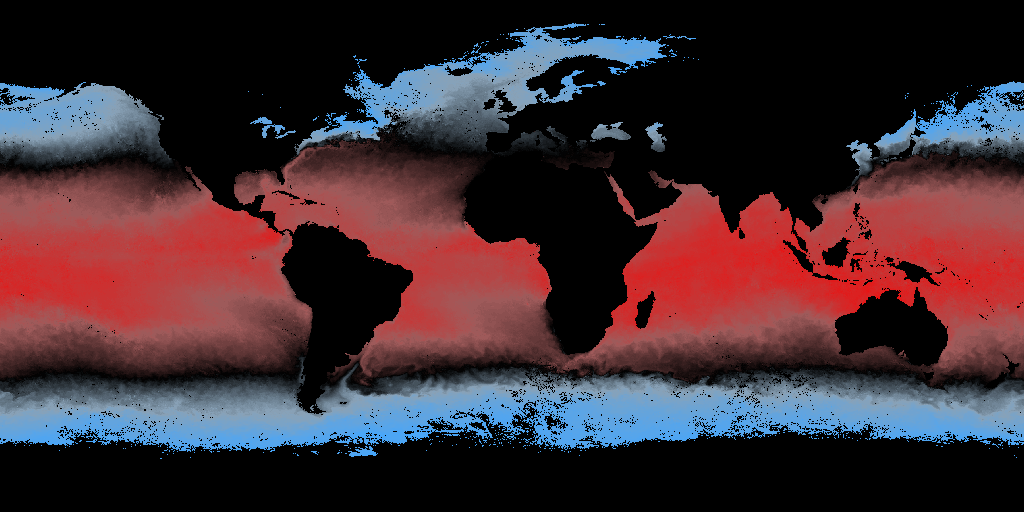
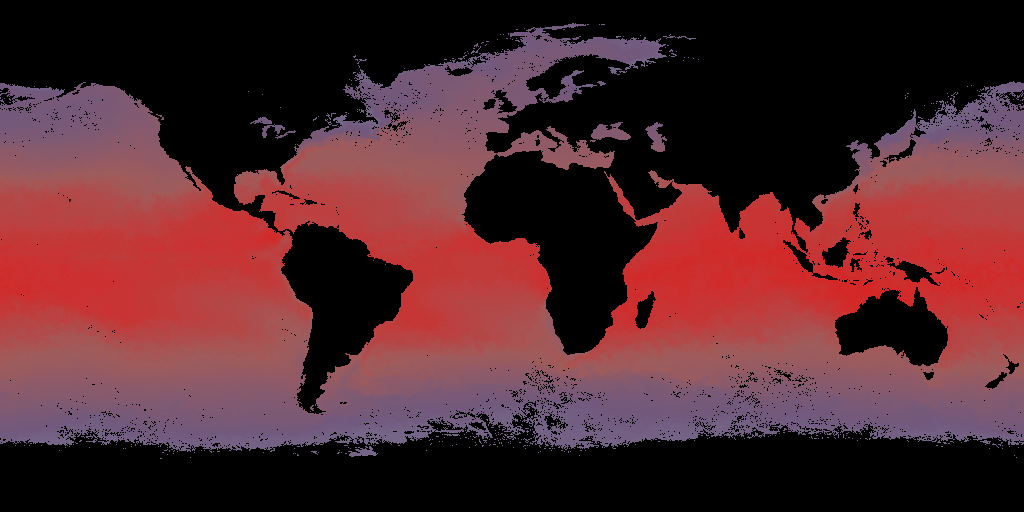
add 1000mb data, update gradient

diff --git a/js/config.js b/js/config.js
@@ -20,7 +20,7 @@ var CONFIG = {
       "radius": 0.5,
       "minMag": 0.33,
       "precision": 0.01,
-      "animationMs": 4000,
+      "animationMs": 2000,
       "geojsonLineColor": 0x555555,
       "frames": [
         "data/ocean_currents/temperature/2016-01.png",
@@ -38,16 +38,16 @@ var CONFIG = {
       ]
     },{
       "el": '#atmosphere-wind',
-      "title": "Wind and temperature<br />10 km above sea level",
-      "data": "data/atmosphere_wind/gfsanl_4_25000.png",
-      "meta": "data/atmosphere_wind/gfsanl_4_25000_meta.json",
+      "title": "Wind and temperature<br />10 meters above sea level",
+      "data": "data/atmosphere_wind/gfsanl_4_100000.png",
+      "meta": "data/atmosphere_wind/gfsanl_4_100000_meta.json",
       "viewAngle": 45,
       "near": 0.01,
       "far": 1000,
       "radius": 0.5,
-      "minMag": 0.0,
+      "minMag": 0.33,
       "precision": 0.01,
-      "animationMs": 1000,
+      "animationMs": 2000,
       "geojsonLineColor": 0xdddddd,
       "frames": [
         "data/atmosphere_wind/temperature/2016-01.png",

diff --git a/scripts/processData.py b/scripts/processData.py
@@ -14,8 +14,8 @@ import random
 import sys
 
 parser = argparse.ArgumentParser()
-parser.add_argument('-in', dest="INPUT_FILE", default="../data/atmosphere_wind/gfsanl_4_25000_monthly.json", help="Input CSV files")
-parser.add_argument('-out', dest="OUTPUT_FILE", default="../data/atmosphere_wind/gfsanl_4_25000.json", help="Output json file")
+parser.add_argument('-in', dest="INPUT_FILE", default="../data/atmosphere_wind/gfsanl_4_100000_monthly.json", help="Input CSV files")
+parser.add_argument('-out', dest="OUTPUT_FILE", default="../data/atmosphere_wind/gfsanl_4_100000.json", help="Output json file")
 parser.add_argument('-lon', dest="LON_RANGE", default="0,360", help="Longitude range")
 parser.add_argument('-lat', dest="LAT_RANGE", default="90,-90", help="Latitude range")
 parser.add_argument('-lonsample', dest="LON_RANGE_SAMPLE", default="0,360", help="Longitude range")
@@ -23,8 +23,8 @@ parser.add_argument('-latsample', dest="LAT_RANGE_SAMPLE", default="90,-90", hel
 parser.add_argument('-ppr', dest="PARTICLES_PER_ROW", type=int, default=240, help="Particles per row")
 parser.add_argument('-ppc', dest="PARTICLES_PER_COL", type=int, default=120, help="Particles per col")
 parser.add_argument('-ppp', dest="POINTS_PER_PARTICLE", type=int, default=100, help="Points per particle")
-parser.add_argument('-vel', dest="VELOCITY_MULTIPLIER", type=float, default=0.03, help="Velocity mulitplier")
-parser.add_argument('-dt', dest="DISPLAY_PARTICLES", type=int, default=2200, help="Number of particles to display")
+parser.add_argument('-vel', dest="VELOCITY_MULTIPLIER", type=float, default=0.06, help="Velocity mulitplier")
+parser.add_argument('-dt', dest="DISPLAY_PARTICLES", type=int, default=2000, help="Number of particles to display")
 parser.add_argument('-rand', dest="RANDOM", type=int, default=1, help="(1) if we should show random particles or (0) particles sorted by velocity")
 
 args = parser.parse_args()
@@ -89,7 +89,7 @@ print "%s degrees (lon) by %s degrees (lat) = %s (total)" % (lons, lats, total)
 #             mmin = mag
 #
 #         # normal = norm(mag, 0, 3)
-#         normal = norm(mag, 0, 70)
+#         normal = norm(mag, 0, 12)
 #         c = normal * 255.0
 #         c = int(round(c))
 #         pixels[lon, lat] = (c, c, c)
@@ -104,7 +104,7 @@ print "%s degrees (lon) by %s degrees (lat) = %s (total)" % (lons, lats, total)
 # im.save("monthData.png")
 # sys.exit(1)
 
-print "Target particles: %s" % PARTICLES
+print "Sample points: %s" % PARTICLES
 data = []
 
 randomCols = [random.randint(0, PARTICLES_PER_COL-1) for col in range(PARTICLES_PER_COL)]
@@ -216,7 +216,7 @@ for month in range(12):
     #             prev = coordinates[i-1]
     #             p0 = (norm(prev[0], LON_RANGE_SAMPLE[0], LON_RANGE_SAMPLE[1], clamp=False) * WIDTH, norm(prev[1], LAT_RANGE_SAMPLE[0], LAT_RANGE_SAMPLE[1], clamp=False) * HEIGHT)
     #             p1 = (norm(point[0], LON_RANGE_SAMPLE[0], LON_RANGE_SAMPLE[1], clamp=False) * WIDTH, norm(point[1], LAT_RANGE_SAMPLE[0], LAT_RANGE_SAMPLE[1], clamp=False) * HEIGHT)
-    #             alpha = int(round(norm(point[2], 0, 70) * 255))
+    #             alpha = int(round(norm(point[2], 0, 12) * 255))
     #             # alpha = int(round(norm(point[2], 0, 2) * 255))
     #             draw.line([p0, p1], fill=(255, 255, 255, alpha))
     # del draw

diff --git a/scripts/atmosphereWind/makeImages.py b/scripts/atmosphereWind/makeImages.py
@@ -1,7 +1,7 @@
 # -*- coding: utf-8 -*-
 
 import argparse
-from colormaps import *
+# from colormaps import *
 import datetime
 import json
 from lib import *
@@ -13,10 +13,10 @@ import random
 import sys
 
 parser = argparse.ArgumentParser()
-parser.add_argument('-in', dest="INPUT_FILE", default="../../data/atmosphere_wind/gfsanl_4_25000_monthly.json", help="Input json file")
+parser.add_argument('-in', dest="INPUT_FILE", default="../../data/atmosphere_wind/gfsanl_4_100000_monthly.json", help="Input json file")
 parser.add_argument('-out', dest="OUTPUT_FILE", default="../../data/atmosphere_wind/temperature/2016-%s.png", help="Output image file")
-parser.add_argument('-grad', dest="GRADIENT", default="anomaly", help="Color gradient")
-parser.add_argument('-range', dest="RANGE", default="-60.0,-34.0", help="Temperature range")
+parser.add_argument('-grad', dest="GRADIENT_FILE", default="../../data/colorGradientAnomaly.json", help="Color gradient json file")
+parser.add_argument('-range', dest="RANGE", default="-35.0,40.0", help="Temperature range")
 parser.add_argument('-width', dest="WIDTH", type=int, default=1024, help="Target image width")
 parser.add_argument('-height', dest="HEIGHT", type=int, default=512, help="Target image height")
 
@@ -24,7 +24,7 @@ args = parser.parse_args()
 
 INPUT_FILE = args.INPUT_FILE
 OUTPUT_FILE = args.OUTPUT_FILE
-GRADIENT = args.GRADIENT
+GRADIENT_FILE = args.GRADIENT_FILE
 RANGE = [float(d) for d in args.RANGE.split(",")]
 WIDTH = args.WIDTH
 HEIGHT = args.HEIGHT
@@ -38,6 +38,10 @@ lats = int(data["lats"])
 lons = int(data["lons"])
 total = lons * lats
 totalPixels = WIDTH * HEIGHT
+
+GRADIENT = []
+with open(GRADIENT_FILE) as f:
+    GRADIENT = json.load(f)
 
 print "%s degrees (lon) by %s degrees (lat) = %s (total)" % (lons, lats, total)
 

diff --git a/scripts/oceanCurrents/makeImages.py b/scripts/oceanCurrents/makeImages.py
@@ -1,10 +1,11 @@
 # -*- coding: utf-8 -*-
 
 import argparse
-from colormaps import *
+# from colormaps import *
 import csv
 import datetime
 import gzip
+import json
 from lib import *
 import math
 import os
@@ -16,8 +17,8 @@ import sys
 parser = argparse.ArgumentParser()
 parser.add_argument('-in', dest="INPUT_FILE", default="../../data/sea_surface_temperature/MYD28M_2016-%s.CSV.gz", help="Input CSV files")
 parser.add_argument('-out', dest="OUTPUT_FILE", default="../../data/ocean_currents/temperature/2016-%s.png", help="Output image file")
-parser.add_argument('-grad', dest="GRADIENT", default="anomaly", help="Color gradient")
-parser.add_argument('-range', dest="RANGE", default="-2.0,35.0", help="Temperature range")
+parser.add_argument('-grad', dest="GRADIENT_FILE", default="../../data/colorGradientAnomaly.json", help="Color gradient json file")
+parser.add_argument('-range', dest="RANGE", default="-35.0,40.0", help="Temperature range")
 parser.add_argument('-width', dest="WIDTH", type=int, default=1024, help="Target image width")
 parser.add_argument('-height', dest="HEIGHT", type=int, default=512, help="Target image height")
 
@@ -25,10 +26,14 @@ args = parser.parse_args()
 
 INPUT_FILE = args.INPUT_FILE
 OUTPUT_FILE = args.OUTPUT_FILE
-GRADIENT = args.GRADIENT
+GRADIENT_FILE = args.GRADIENT_FILE
 RANGE = [float(d) for d in args.RANGE.split(",")]
 WIDTH = args.WIDTH
 HEIGHT = args.HEIGHT
+
+GRADIENT = []
+with open(GRADIENT_FILE) as f:
+    GRADIENT = json.load(f)
 
 data = []
 print "Reading data..."

diff --git a/scripts/atmosphereWind/preprocessData.py b/scripts/atmosphereWind/preprocessData.py
@@ -1,6 +1,6 @@
 # -*- coding: utf-8 -*-
 
-# python preprocessData.py -in "../../data/atmosphere_wind/100000/gfsanl_4_%s_0000_000.csv.gz" -out "../../data/atmosphere_wind/gfsanl_4_100000_monthly.json"
+# python preprocessData.py -in "../../data/atmosphere_wind/25000/gfsanl_4_%s_0000_000.csv.gz" -out "../../data/atmosphere_wind/gfsanl_4_25000_monthly.json"
 
 import argparse
 import datetime
@@ -17,8 +17,8 @@ parser = argparse.ArgumentParser()
 # Data: https://nomads.ncdc.noaa.gov/data/gfs4/201602/20160229/
 # Doc: http://www.nco.ncep.noaa.gov/pmb/docs/on388/tableb.html#GRID4
     # 259920-point (720x361) global Lon/Lat grid. (1,1) at (0E, 90N); matrix layout; prime meridian not duplicated
-parser.add_argument('-in', dest="INPUT_FILE", default="../../data/atmosphere_wind/25000/gfsanl_4_%s_0000_000.csv.gz", help="Input CSV files")
-parser.add_argument('-out', dest="OUTPUT_FILE", default="../../data/atmosphere_wind/gfsanl_4_25000_monthly.json", help="Output json file")
+parser.add_argument('-in', dest="INPUT_FILE", default="../../data/atmosphere_wind/100000/gfsanl_4_%s_0000_000.csv.gz", help="Input CSV files")
+parser.add_argument('-out', dest="OUTPUT_FILE", default="../../data/atmosphere_wind/gfsanl_4_100000_monthly.json", help="Output json file")
 parser.add_argument('-start', dest="DATE_START", default="2016-01-01", help="Date start")
 parser.add_argument('-end', dest="DATE_END", default="2016-12-31", help="Date end")
 

diff --git a/scripts/jsonToPng.py b/scripts/jsonToPng.py
@@ -11,12 +11,12 @@ import sys
 
 parser = argparse.ArgumentParser()
 
-parser.add_argument('-in', dest="INPUT_FILE", default="../data/atmosphere_wind/gfsanl_4_25000.json", help="Input JSON data file")
+parser.add_argument('-in', dest="INPUT_FILE", default="../data/atmosphere_wind/gfsanl_4_100000.json", help="Input JSON data file")
 parser.add_argument('-rgb', dest="RGB", default="lon,lat,mag", help="Key to map to red, green, blue")
-parser.add_argument('-range', dest="RANGE", default="-180,180;90,-90;0,50", help="Ranges for RGB values")
+parser.add_argument('-range', dest="RANGE", default="-180,180;90,-90;0,12", help="Ranges for RGB values")
 parser.add_argument('-dim', dest="DIM", default="intervals,particleCount,pointsPerParticle", help="Keys for dimension counts")
-parser.add_argument('-meta', dest="OUTPUT_META_FILE", default="../data/atmosphere_wind/gfsanl_4_25000_meta.json", help="Output meta JSON file")
-parser.add_argument('-out', dest="OUTPUT_FILE", default="../data/atmosphere_wind/gfsanl_4_25000.png", help="Output PNG file")
+parser.add_argument('-meta', dest="OUTPUT_META_FILE", default="../data/atmosphere_wind/gfsanl_4_100000_meta.json", help="Output meta JSON file")
+parser.add_argument('-out', dest="OUTPUT_FILE", default="../data/atmosphere_wind/gfsanl_4_100000.png", help="Output PNG file")
 
 args = parser.parse_args()
 

diff --git a/scripts/generateGradient.py b/scripts/generateGradient.py
@@ -1,12 +1,14 @@
 # -*- coding: utf-8 -*-
 
 import argparse
+import json
 from pprint import pprint
 import sys
 
 parser = argparse.ArgumentParser()
-parser.add_argument('-grad', dest="GRADIENT", default="#42a6ff,#89a2b7,#000000,#a05b5b,#fc0000", help="Color gradient")
+parser.add_argument('-grad', dest="GRADIENT", default="#42a6ff,#89a2b7,#71597c,#a05b5b,#fc0000", help="Color gradient")
 parser.add_argument('-width', dest="STEPS", type=int, default=100, help="Steps in gradient")
+parser.add_argument('-out', dest="OUTPUT_FILE", default="../data/colorGradientAnomaly.json", help="Output JSON file")
 
 args = parser.parse_args()
 
@@ -47,4 +49,10 @@ for i in range(STEPS):
     mu = 1.0 * i / (STEPS-1)
     grad.append(getColor(GRADIENT, mu))
 
-pprint(grad)
+# pprint(grad)
+
+# Write to file
+print "Writing data to file..."
+with open(args.OUTPUT_FILE, 'w') as f:
+    json.dump(grad, f)
+    print "Wrote data to %s" % args.OUTPUT_FILE

diff --git a/scripts/atmosphereWind/lib.py b/scripts/atmosphereWind/lib.py
@@ -13,6 +13,16 @@ def clamp(value, low=0.0, high=1.0):
     value = max(value, low)
     return value
 
+def getColor(gradient, mu, start=0.0, end=1.0):
+    gradientLen = len(gradient)
+    start = int(round(start * gradientLen))
+    end = int(round(end * gradientLen))
+    gradient = gradient[start:end]
+
+    index = int(round(mu * (gradientLen-1)))
+    rgb = tuple([int(round(v*255.0)) for v in gradient[index]])
+    return rgb
+
 def lerp(a, b, mu):
     return (b-a) * mu + a
 

diff --git a/scripts/oceanCurrents/lib.py b/scripts/oceanCurrents/lib.py
@@ -11,6 +11,16 @@ def clamp(value, low=0.0, high=1.0):
     value = max(value, low)
     return value
 
+def getColor(gradient, mu, start=0.0, end=1.0):
+    gradientLen = len(gradient)
+    start = int(round(start * gradientLen))
+    end = int(round(end * gradientLen))
+    gradient = gradient[start:end]
+
+    index = int(round(mu * (gradientLen-1)))
+    rgb = tuple([int(round(v*255.0)) for v in gradient[index]])
+    return rgb
+
 def lerp(a, b, mu):
     return (b-a) * mu + a
 
